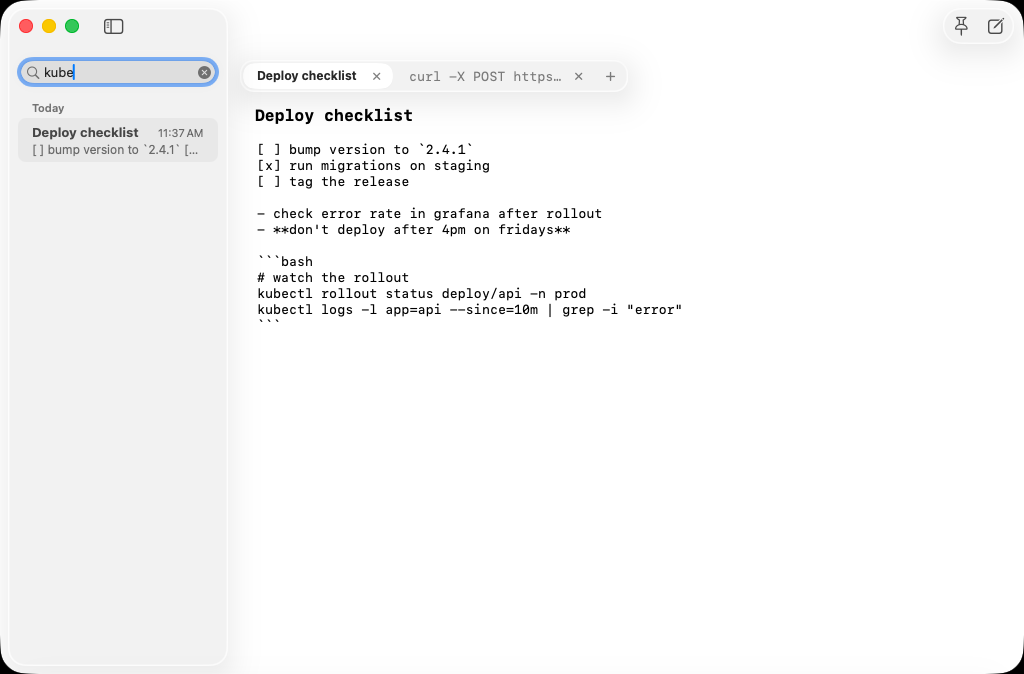
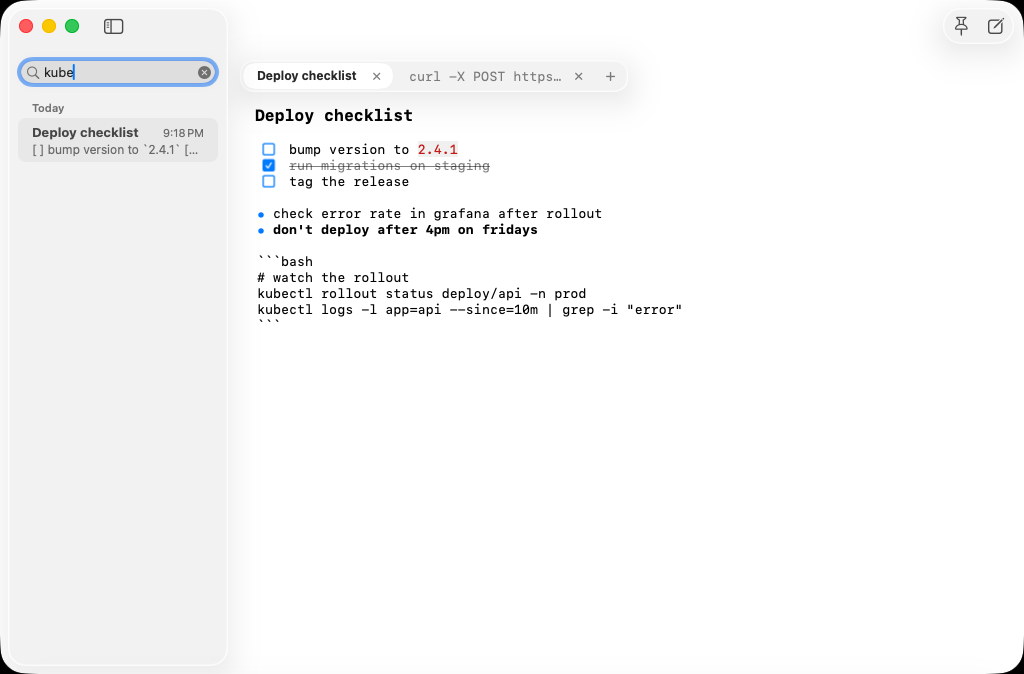
Describe formatting in the README, architecture notes and roadmap; refresh the screenshots
README: version 0.3, the formatting bullet, a formatting screenshot, and the
release table without 0.3. docs/images: window-light and window-dark from
typical-light and typical-dark, formatting from formatting-light, search from
search-light (the editor behind the search shows rendered markers now), all
from CI's screenshots of f72e30f (the app code of this head). The architecture
notes get the styler in the data flow, the roadmap marks Plan 3 done, and
AGENTS.md lists the new screenshot names.

Claude-Session: https://claude.ai/code/session_012QZgR4c3cSp5d1vNC7VJcU

Changed region(s): [[0.25, 0.3116, 0.5625, 0.3739], [0.25, 0.1869, 0.4688, 0.2804], [0.1562, 0.1869, 0.1875, 0.2181]]

diff --git a/docs/architecture.md b/docs/architecture.md
@@ -13,8 +13,9 @@ App (AppKit shell)  ──depends on──▶  ScratchCore (Foundation + CSQLite
   the note model, storage and full-text search (`NoteStore`, `SearchQuery`, the FTS5 index), the tab rules (`TabList`),
   the sidebar's groups and time labels, session state, autosave policy, launch options and fixtures, and the marker
   parser (`Markup/`: the spans of a line and the fenced code blocks of a note, as UTF-16 ranges the editor applies
-  directly). Later plans add list editing rules, paste classification, copy-out and code detection. It builds and
-  tests with plain `swift test` on macOS and on Linux.
+  directly) and the rules for the keys that edit it (`ListEditing`, `InlineEditing`: what Return, Tab, ⇧Tab, ⇧⌘L, ⌘B
+  and a click on a checkbox change, as a `TextEdit`). Later plans add paste classification, copy-out and code
+  detection. It builds and tests with plain `swift test` on macOS and on Linux.
 - **`App/`** is the thin AppKit shell: window, sidebar, editor view. It maps core values to UI and UI events to core
   calls. Logic found in the shell that could live in the core is a refactoring target. The app project is generated
   by XcodeGen from `App/project.yml`, and the generated project is not committed.
@@ -43,6 +44,19 @@ key press
      -> SidebarSections.make -> SidebarViewController.reload
 ```
 
+- **Formatting is attributes, never text** (`docs/features/formatting.md`). `MarkupStyler` is the text storage's
+  delegate, so it runs inside every edit, before `textDidChange`: it restyles the paragraphs the edit touched, from the
+  core's `MarkupParser` and `CodeBlockIndex` (the fenced blocks, carried over the edit). It sets fonts, colours,
+  paragraph styles and a `scratchMarker` role on each marker character, and the stored characters stay exactly what was
+  typed, so the data flow above, copy and search never see the formatting. `MarkupLayoutManager` turns the `hidden`
+  roles into null glyphs and draws the bullets and boxes. A change of the selection goes through
+  `EditorViewController` to `MarkupStyler.selectionDidChange`, which shows the markers of the bold and code runs the
+  caret touches.
+- **The keys that edit text go through the core.** Return, Tab, ⇧Tab, ⌘B, ⇧⌘L and a click on a box in `NoteTextView`
+  hand the paragraphs under the selection to `ListEditing` or `InlineEditing`, and apply the `TextEdit` they answer
+  with `NoteTextView.apply` (`shouldChangeText`, `replaceCharacters`, `didChangeText`, one undo step). From
+  `didChangeText` on it is the path of a typed character, and the styler restyles what changed. A ⌘-click on a link
+  asks `MarkupStyler.link(at:)` and opens it with `NSWorkspace`.
 - A write that fails never costs text: `UnsavedNotes` (ScratchCore) keeps the note with the owner's text until a write of
   it succeeds, `persistNow()` and every save write those notes again, and `SessionCoordinator.loadNote` shows a note
   from there when it is opened again (`docs/features/autosave-and-restore.md`, "Write errors are not silent").
@@ -106,6 +120,12 @@ key press
   The factory builds the stack by hand (storage, layout manager with non-contiguous layout, container, view), and
   `NoteTextView.ownedTextStorage` keeps the storage alive. A text view made any other way is TextKit 2 and slower in
   a long note.
+- **Styling is bounded work on the main thread.** A keystroke restyles its paragraphs. A note that is shown is styled
+  around the visible lines first (±200 paragraphs, before the first frame) and the rest in chunks of 1,000 paragraphs
+  with a time budget, one per main run loop turn (`RunLoopIdle`), so a note of 10,000 lines switches within budget and
+  is fully styled a few turns later (`MarkupStyler.isFullyStyled`). A paste of more than 20,000 characters is styled in
+  the same chunks. Showing another note cancels the job. `MarkupLayoutManager` is `nonisolated` (AppKit does not
+  annotate `NSLayoutManager` for the main actor), the styler is `@MainActor`.
 - **Signposts** (`Signposts.editor`, subsystem `io.github.ldellisola.Scratch`, category `editor`) mark two intervals that
   the performance tests read: `keystroke` (`NoteTextView.keyDown`) and `switch-note` (`SessionCoordinator.open`). Both
   end when the main run loop is next about to wait (`RunLoopIdle`), so they include the layout and drawing that

diff --git a/README.md b/README.md
@@ -5,7 +5,7 @@ everything back when you open it again. It is made for one person on one Apple S
 notes and todo lists.
 
 <p align="center">
-  <img src="docs/images/window-light.png" alt="Scratch in light mode: a sidebar of notes grouped by day, a tab strip, and a note with a checklist and a shell snippet" width="49%">
+  <img src="docs/images/window-light.png" alt="Scratch in light mode: a sidebar of notes grouped by day, a tab strip, and a note with a checklist, bullets, bold text and a shell snippet" width="49%">
   <img src="docs/images/window-dark.png" alt="The same window in dark mode" width="49%">
 </p>
 
@@ -18,7 +18,7 @@ from, and text you copy always comes out as plain text.
 
 ## What it does
 
-Scratch is at version 0.2, which does these things:
+Scratch is at version 0.3, which does these things:
 
 - **Always ready.** It opens to a note you can type in at once. There is no Save and no file to name: everything you
   type is written within about a second, and a crash or a force-quit loses at most that second. Quitting and opening
@@ -34,20 +34,28 @@ Scratch is at version 0.2, which does these things:
   text.
 - **Deleting is undoable.** Delete a note from its right-click menu, or with ⌘⌫ in the sidebar. It moves to Recently
   Deleted, where you can restore it, and is removed for good after 30 days.
+- **Just enough formatting, from what you type.** `- ` is a bullet, `[ ] ` and `[x] ` are checkboxes you can click
+  (ticked ones are struck through), `**bold**` is bold, `` `code` `` is tinted, and `http(s)://` links open with
+  ⌘-click. Return continues a list, Tab and ⇧Tab indent it, ⌘B makes text bold and ⇧⌘L makes a checklist. The `**` and
+  the backticks hide, except where the caret is. What is stored never changes, so copying a note out gives the
+  characters you typed, `- ` and `**` included. Inside a fenced block (three backticks), and inside inline code, every
+  character stays exactly as typed.
 - **Made for macOS 26.** The sidebar, the tab strip and the toolbar buttons are native Liquid Glass, and the app is
   built only for Apple Silicon.
+
+<p align="center">
+  <img src="docs/images/formatting.png" alt="One note with a bullet and a nested bullet, an open and a ticked checkbox, bold text, inline code, a link, and a fenced block whose lines show exactly as typed" width="70%">
+</p>
 
 <p align="center">
   <img src="docs/images/search.png" alt="Typing kube in the search field leaves only the notes that contain it" width="49%">
   <img src="docs/images/recently-deleted.png" alt="The Recently Deleted section open under the note list" width="49%">
 </p>
 
-The screenshots show checkboxes, bold text and a code block as the plain text you type for them. Scratch will draw
-those markers as bullets, checkboxes, bold and highlighted code in the next releases:
+Fenced code shows as typed for now. Scratch will highlight it, and detect code on paste, in the next releases:
 
 | Release | Adds |
 |---|---|
-| 0.3 | Bullets, checkboxes, bold, inline code and links, drawn from the markers you type |
 | 0.4 | Code detection on paste, syntax highlighting, code blocks with a language label |
 | 0.5 | Attachments: images and files, pasted or dragged in |
 | 1.0 | Performance and accessibility polish |

diff --git a/AGENTS.md b/AGENTS.md
@@ -13,7 +13,7 @@ Copied text always comes out as plain text. The app is developed only by AI agen
 - Design (the source of truth for behaviour): [`docs/superpowers/specs/2026-10-19-scratchpad-design.md`](docs/superpowers/specs/2026-10-19-scratchpad-design.md)
 - Roadmap (six plans, one release each): [`docs/superpowers/plans/2026-10-19-roadmap.md`](docs/superpowers/plans/2026-10-19-roadmap.md)
 - Latest plan: [`docs/superpowers/plans/2026-10-20-plan-3-formatting.md`](docs/superpowers/plans/2026-10-20-plan-3-formatting.md),
-  in progress on the branch `plan-3-formatting` (release 0.3.0). Plan 2, released as 0.2.0:
+  done and released as 0.3.0 (the formatting). Plan 2, released as 0.2.0:
   [`2026-10-20-plan-2-notes-and-tabs.md`](docs/superpowers/plans/2026-10-20-plan-2-notes-and-tabs.md). Plan 1, released
   as 0.1.0: [`2026-10-19-plan-1-walking-skeleton.md`](docs/superpowers/plans/2026-10-19-plan-1-walking-skeleton.md).
 
@@ -157,9 +157,10 @@ docs/release-notes-footer.md      the install and update steps (the DMG first, t
 docs/features/                    one short behaviour spec per feature: paste-and-copy.md, autosave-and-restore.md,
                                   title-and-font-size.md, tabs.md, sidebar.md, recently-deleted.md, formatting.md (more
                                   as features land)
-docs/images/                      the README's screenshots (window-light, window-dark, search, recently-deleted): copies
-                                  of the `screenshots/` that CI published for a release commit (`scripts/ci-fetch.sh`,
-                                  section 4: typical-light, typical-dark, search-light, recently-deleted-light). They
+docs/images/                      the README's screenshots (window-light, window-dark, formatting, search,
+                                  recently-deleted): copies of the `screenshots/` that CI published for a release commit
+                                  (`scripts/ci-fetch.sh`, section 4: typical-light, typical-dark, formatting-light,
+                                  search-light, recently-deleted-light). They
                                   change only when someone replaces them, so refresh them when a plan visibly changes
                                   the UI
 docs/decisions/                   numbered decision records: 0001 (the editor uses TextKit 1, with the measurements and the

diff --git a/docs/superpowers/plans/2026-10-19-roadmap.md b/docs/superpowers/plans/2026-10-19-roadmap.md
@@ -10,7 +10,7 @@ Each plan after the first is written only once the previous one has merged, so t
 |---|---|---|---|---|
 | 1 | **Walking skeleton**, [plan](2026-10-19-plan-1-walking-skeleton.md) | Toolchain and session setup. `ScratchCore` covers storage, autosave, session restore and fixtures. The app window has a glass sidebar, toolbar and one plain-text editor, with plain paste and plain copy. Also: the CI loop and `ci-results` branch, screenshots, the performance harness, the TextKit decision, and the release pipeline. | §5, §6.1 (partly), §6.5 (plain text only), §6.6, §7, §8, §9 | 0.1.0 (done) |
 | 2 | Notes and tabs, [plan](2026-10-20-plan-2-notes-and-tabs.md) | Title field, sidebar groups and pinning, search (FTS5), the tab strip and its behaviours, delete and Recently Deleted with 30-day purge, ⌘+/⌘− font size, all §6 shortcuts | §6.1–6.3, §6.4 (title, font size), §6.7 | 0.2.0 (done) |
-| 3 | Formatting, [plan](2026-10-20-plan-3-formatting.md) | Marker parser in core, list editing rules, rendering of bullets, checkboxes, bold, inline code and links, ⌘B and ⇧⌘L, copy-out with markers | §6.4 (markers), §6.5 | 0.3.0 |
+| 3 | Formatting, [plan](2026-10-20-plan-3-formatting.md) | Marker parser in core, list editing rules, rendering of bullets, checkboxes, bold, inline code and links, ⌘B and ⇧⌘L, copy-out with markers | §6.4 (markers), §6.5 | 0.3.0 (done) |
 | 4 | Code | Code detection, tree-sitter highlighting, code blocks with a language label menu, paste classification | §6.4 (code), §6.5 (paste order) | 0.4.0 |
 | 5 | Attachments | Attachment storage, paste, drag and paperclip, inline previews and chips, open and drag out, copy rules, purge | §6.4 (attachments), §6.5 | 0.5.0 |
 | 6 | Polish and hardening | Performance budgets tightened against the baseline, accessibility pass, visual polish against the mockup, and a cold-boot check on a real Mac | §4, §7, §10 | 1.0.0 |

diff --git a/docs/features/formatting.md b/docs/features/formatting.md
@@ -5,7 +5,8 @@ Spec: [§6.4 Editor and formatting](../superpowers/specs/2026-10-19-scratchpad-d
 behaviour, marker rules) and §6.5 (copy-out keeps the markers), guarding the anti-goals "Mangled code" and "Lost text"
 (§4). Plan: [Plan 3](../superpowers/plans/2026-10-20-plan-3-formatting.md).
 
-Status: plan 3, task 6 (styling, checkboxes, ⇧⌘L, the keyboard: Return, Tab, ⇧Tab and ⌘B, and ⌘-click on links).
+Status: released in 0.3.0 (plan 3): styling, checkboxes, ⇧⌘L, the keyboard (Return, Tab, ⇧Tab and ⌘B) and ⌘-click on
+links.
 
 ## Behaviour: what renders
 
@@ -176,4 +177,5 @@ text like any other, so that placing the caret in a link never opens a browser.
 | Styling registers no undo | `testStylingDoesNotRegisterUndo`, `testTypingInStyledTextIsOneUndoStepThatStylesTheTextAgain` |
 | Copy keeps the markers, and pasted text renders like typed text | `testCopyKeepsMarkers`, `testPastedTextRendersLikeTypedText` |
 | A note of 10,000 lines is styled in chunks, an edit while it is pending is carried over, a big paste too | `testHugeNoteIsFullyStyledSoon`, `testAnEditWhileTheRestOfANoteIsStyledKeepsTheRestRight`, `testABigPasteIsStyledAfterwards` |
+| The whole table renders in light and dark: hanging bullets, boxes, a struck-through ticked item, hidden stars, tinted code, a coloured link and a fenced block as typed (the `formatting` fixture; a person looks at the PNGs in `ci-results`) | `ScreenshotTests.testFormattingLight`, `testFormattingDark` |
 | ScratchCore: the blocks of a note, carried over edits; the position mapping; the prefilter | `CodeBlockIndexTests`, `EditMappingTests`, `MarkupPrefilterTests` |
